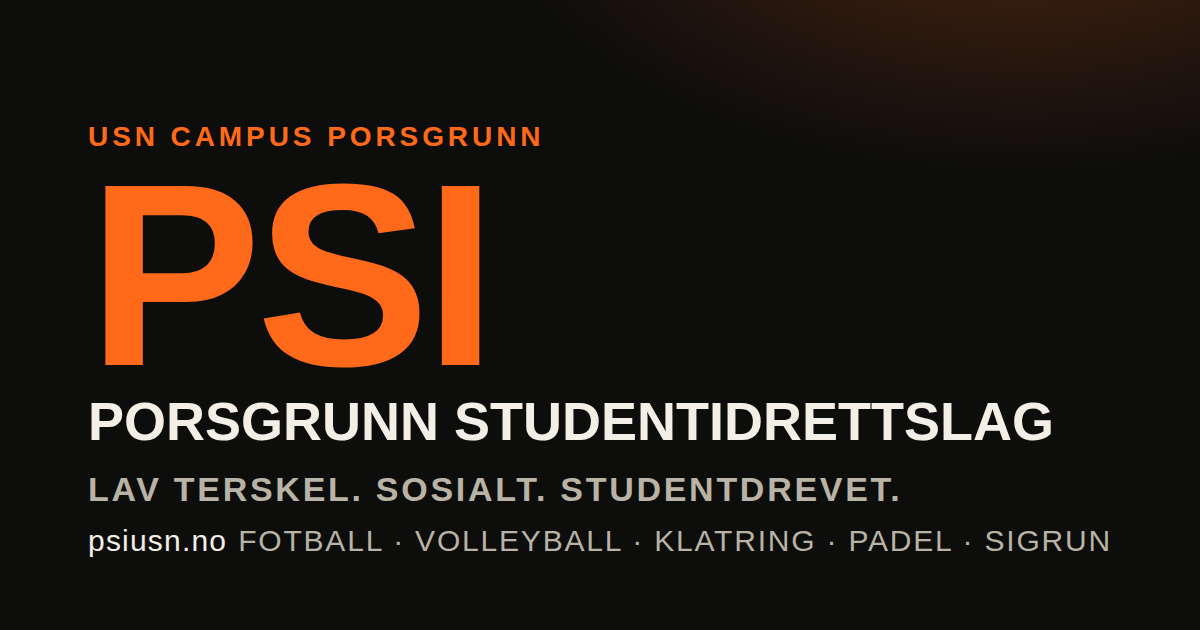
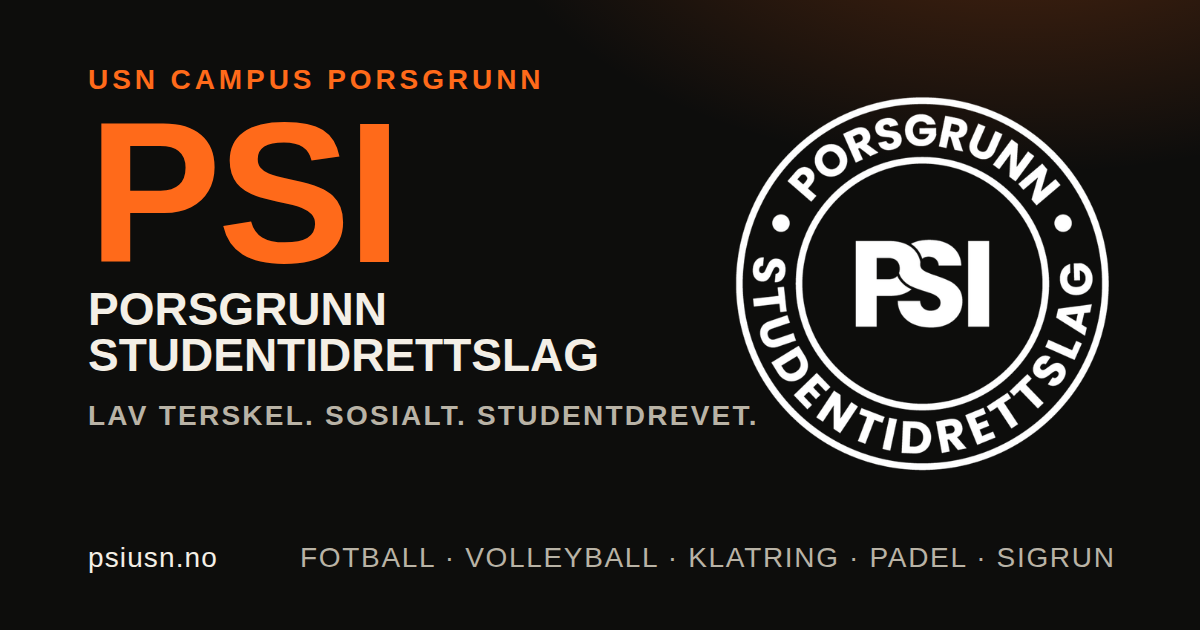
PSI: legg inn de ekte logoene
Ordmerke og idrettsemblem i hvit og svart under public/logo. Brukes i
meny, hero, fot, QR-siden og delingsbildet. Favicon-sett generert fra
logoen (scripts/icons.mjs). Stiene styres fra site.logo, site.logoOnLight
og site.emblem i datafila.

Claude-Session: https://claude.ai/code/session_01MLEi1E39S73Hvz2GwZfu8L

diff --git a/psi/src/styles/base.css b/psi/src/styles/base.css
@@ -60,7 +60,7 @@ p:last-child { margin-bottom: 0; }
 .nav__row { display: flex; align-items: center; justify-content: space-between; min-height: 64px; gap: var(--sp-3); }
 .brand { display: flex; align-items: center; gap: var(--sp-3); text-decoration: none; min-width: 0; }
 .brand__mark { display: grid; place-items: center; width: 42px; height: 42px; flex: none; background: var(--orange); color: var(--black); border-radius: var(--radius); font-family: var(--font-display); font-weight: 800; font-size: 1.15rem; letter-spacing: 0.02em; }
-.brand__logo { height: 42px; width: auto; }
+.brand__logo { height: 44px; width: 44px; flex: none; }
 .brand__name { font-family: var(--font-display); font-weight: 700; text-transform: uppercase; font-size: var(--fs-lg); line-height: 1; white-space: nowrap; overflow: hidden; text-overflow: ellipsis; }
 .brand__sub { display: block; font-family: var(--font-body); font-weight: 400; text-transform: none; font-size: var(--fs-xs); color: var(--color-on-dark-muted); }
 .nav__links { display: flex; gap: var(--sp-1); list-style: none; margin: 0; padding: 0; align-items: center; }
@@ -94,6 +94,15 @@ p:last-child { margin-bottom: 0; }
 .hero__facts { display: flex; gap: var(--sp-5) var(--sp-6); flex-wrap: wrap; margin-top: var(--sp-6); padding-top: var(--sp-5); border-top: 1px solid var(--coal-line); }
 .fact strong { display: block; font-family: var(--font-display); font-size: var(--fs-2xl); line-height: 1; color: var(--orange); }
 .fact span { font-size: var(--fs-sm); color: var(--color-on-dark-muted); }
+
+/* Logo-emblem i hero: bare på brede skjermer, teksten er viktigst på mobil */
+.hero__grid { display: grid; gap: var(--sp-6); align-items: center; grid-template-columns: 1fr; }
+.hero__emblem { display: none; }
+@media (min-width: 900px) {
+  .hero__grid { grid-template-columns: minmax(0, 1fr) 340px; }
+  .hero__emblem { display: block; width: 340px; height: 340px; justify-self: end; opacity: 0.95; }
+}
+@media (min-width: 1100px) { .hero__grid { grid-template-columns: minmax(0, 1fr) 420px; } .hero__emblem { width: 420px; height: 420px; } }
 
 /* ---- Kort ---- */
 .card { background: var(--color-surface); color: var(--ink); border: 1px solid var(--color-divider); border-radius: var(--radius-lg); padding: var(--sp-5); display: flex; flex-direction: column; gap: var(--sp-3); position: relative; }

diff --git a/psi/src/pages/Home.jsx b/psi/src/pages/Home.jsx
@@ -10,7 +10,8 @@ export default function Home() {
   return (
     <>
       <section className="hero">
-        <div className="wrap">
+        <div className="wrap hero__grid">
+          <div>
           <div className="eyebrow">{s.hero.eyebrow}</div>
           <div className="hero__mark" aria-hidden="true">{organization.shortName}</div>
           <h1>{t(organization.tagline)}</h1>
@@ -23,6 +24,8 @@ export default function Home() {
             <div className="fact"><strong>{stats.activeSports}</strong><span>{s.hero.statSports}</span></div>
             <div className="fact"><strong>{stats.uniqueParticipants}</strong><span>{s.hero.statPeople} · {s.hero.statAsOf} {t(stats.asOf)}</span></div>
           </div>
+          </div>
+          {site.emblem && <img className="hero__emblem" src={site.emblem} alt={`${organization.name}: ${activeSports.map((sp) => t(sp.shortName)).join(', ')}`} width="420" height="420" />}
         </div>
       </section>
 

diff --git a/psi/index.html b/psi/index.html
@@ -28,7 +28,8 @@
 <meta name="twitter:description" content="Fotball, volleyball, klatring, padel og SiGRUN. Bli med via Spond.">
 <meta name="twitter:image" content="https://psiusn.no/og-image.png">
 
-<link rel="icon" type="image/svg+xml" href="/favicon.svg">
+<link rel="icon" type="image/png" sizes="32x32" href="/favicon-32.png">
+<link rel="icon" type="image/png" sizes="192x192" href="/favicon-192.png">
 <link rel="apple-touch-icon" href="/apple-touch-icon.png">
 <link rel="manifest" href="/manifest.webmanifest">
 <link rel="preconnect" href="https://fonts.googleapis.com">
@@ -54,6 +55,7 @@
     "alternateName": "SiG",
     "url": "https://www.sig.no/"
   },
+  "logo": "https://psiusn.no/logo/psi-wordmark-black.png",
   "sport": ["Fotball", "Volleyball", "Klatring", "Padel", "Løping"]
 }
 </script>

diff --git a/psi/src/data/psi.js b/psi/src/data/psi.js
@@ -27,9 +27,13 @@ export const site = {
   mainContact: 'leder@sig.no',
   instagram: null,      // f.eks. 'https://www.instagram.com/psiusn'
   facebook: null,
-  // PSI-logo: legg fila i /public og sett stien her, f.eks. '/psi-logo.svg'.
-  // Er den null, vises en tekstbasert PSI-merkelapp.
-  logo: null,
+  // PSI-logoene ligger i /public/logo. Hvit brukes på mørk flate (meny,
+  // hero, fot), svart på lys flate og utskrift. Sett en til null for å
+  // falle tilbake til tekstmerket «PSI».
+  logo: '/logo/psi-wordmark-white.png',
+  logoOnLight: '/logo/psi-wordmark-black.png',
+  emblem: '/logo/psi-icons-white.png',      // de fem idrettene i én sirkel
+  emblemOnLight: '/logo/psi-icons-black.png',
 };
 
 export const organization = {

diff --git a/psi/src/pages/Stand.jsx b/psi/src/pages/Stand.jsx
@@ -15,6 +15,7 @@ export default function Stand() {
         <button type="button" className="btn btn--ghost btn--sm no-print" style={{ marginTop: 'var(--sp-4)' }} onClick={() => window.print()}>Print</button>
       </PageHead>
       <section className="section">
+        {site.logoOnLight && <div className="wrap" style={{ marginBottom: 'var(--sp-5)' }}><img src={site.logoOnLight} alt={organization.name} width="140" height="140" /></div>}
         <div className="wrap stand">
           <article className="card">
             <h3>{s.nav.join}</h3>

diff --git a/psi/src/components/Nav.jsx b/psi/src/components/Nav.jsx
@@ -24,7 +24,7 @@ export default function Nav() {
       <div className="wrap nav__row">
         <Link to="/" className="brand" aria-label={`${organization.shortName}, ${s.nav.home}`}>
           {site.logo ? (
-            <img className="brand__logo" src={site.logo} alt={`${organization.shortName} logo`} />
+            <img className="brand__logo" src={site.logo} alt="" width="44" height="44" />
           ) : (
             <span className="brand__mark" aria-hidden="true">{organization.shortName}</span>
           )}

diff --git a/psi/src/components/Footer.jsx b/psi/src/components/Footer.jsx
@@ -13,6 +13,7 @@ export default function Footer() {
       <div className="wrap">
         <div className="footer__grid">
           <div>
+            {site.logo && <img src={site.logo} alt="" width="72" height="72" style={{ marginBottom: 'var(--sp-3)' }} loading="lazy" />}
             <h4>{organization.shortName}</h4>
             <p>{t(organization.tagline)}</p>
             <p>{s.footer.partOf} <a href={organization.parent.url} target="_blank" rel="noreferrer">{organization.parent.name}</a>.</p>

diff --git a/psi/README.md b/psi/README.md
@@ -34,7 +34,7 @@ Uansett måte er dette feltene:
 | oppdatere deltakertall            | `stats.uniqueParticipants` og `stats.asOf`        |
 | bytte PSI-leder                   | `organization.leader`                             |
 | legge til samarbeidspartner       | `partners[]`                                      |
-| legge inn PSI-logo                | `site.logo` → sti under `public/`                 |
+| bytte PSI-logo                    | `site.logo`, `site.logoOnLight`, `site.emblem` → filer i `public/logo/` |
 | markere nytt semester             | `site.currentSemester`, `site.lastUpdated`        |
 
 Tekst som vises til brukeren står på begge språk: `{ nb: '…', en: '…' }`.
@@ -130,7 +130,6 @@ brede skjermer og på `/stand`, på mobil er «Bli med i Spond»-knappen det vik
 
 ## Det som mangler
 
-- **PSI-logo.** Legg fila i `public/` og sett `site.logo`. Til da vises en tekstmerkelapp.
 - **Bilder fra ekte PSI-aktivitet.** Legg dem i `public/img/` og sett `sports[].image`.
   Til da vises en tydelig plassholder. Ikke bruk genererte bilder av «medlemmer».
 - **Partnerlogoer.** `partners[].logo`. Til da vises navnet som tekst.
